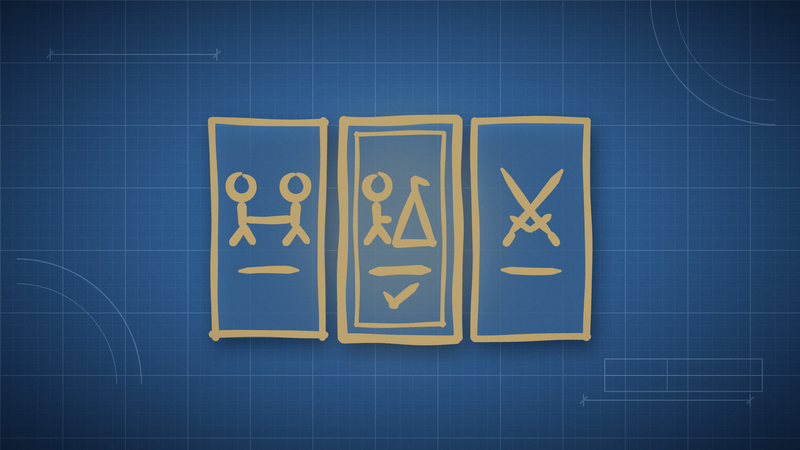
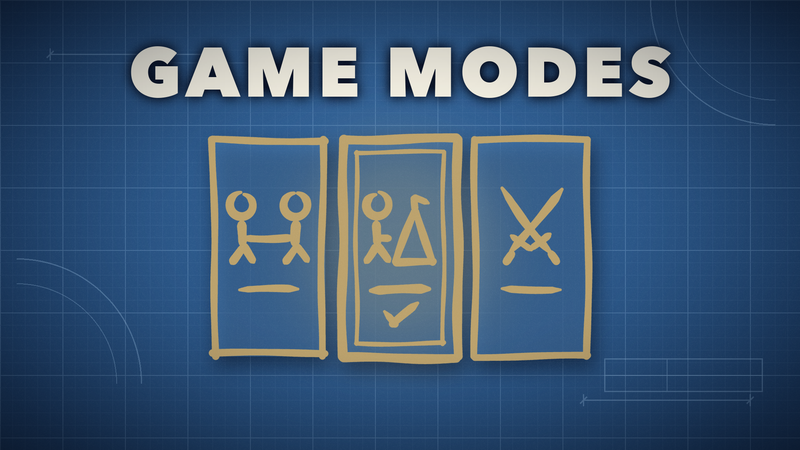
The cover has the mod's name across the top

Changed region(s): [[0.1562, 0.0933, 0.8438, 0.84]]

diff --git a/Tools/make_cover.py b/Tools/make_cover.py
@@ -6,7 +6,7 @@ background like the Mod Uploader's.
 
     python3 Tools/make_cover.py [Timber Empires checkout]
 
-Writes Media/cover.png (1920x1080, for the Workshop and mod.io pages) and
+Needs Pillow, and macOS for the Avenir Next font. Writes Media/cover.png (1920x1080, for the Workshop and mod.io pages) and
 GameModes/thumbnail.png (800x450, the one the game's mod list shows).
 """
 import math
@@ -14,7 +14,7 @@ import random
 import sys
 from pathlib import Path
 
-from PIL import Image, ImageChops, ImageDraw, ImageFilter
+from PIL import Image, ImageChops, ImageDraw, ImageFilter, ImageFont
 
 ROOT = Path(__file__).resolve().parents[1]
 TE = Path(sys.argv[1]) if len(sys.argv) > 1 else ROOT.parent / "TimberEmpires"
@@ -25,6 +25,10 @@ W, H = 1920, 1080
 ART = 1000                      # the drawing's square
 mi.SIZE = ART
 mi.SCALE = ART * mi.SS / 100
+
+FONT = ("/System/Library/Fonts/Avenir Next.ttc", 8)  # Avenir Next Heavy, as Timber Empires' logo
+TITLE = "GAME MODES"
+CHALK = (244, 240, 226)
 
 PAPER = (28, 62, 104)
 PAPER_LIGHT = (52, 102, 156)
@@ -150,7 +154,7 @@ def main():
         ImageDraw.Draw(paper).polygon([(x * mi.SCALE, y * mi.SCALE) for x, y in button], fill=255)
     paper = paper.resize((ART, ART), Image.LANCZOS)
 
-    ox, oy = (W - ART) // 2, (H - ART) // 2 + 10
+    ox, oy = (W - ART) // 2, (H - ART) // 2 + 55
     layer = Image.new("RGBA", (W, H), (0, 0, 0, 0))
 
     shadow = Image.new("L", (W, H), 0)
@@ -176,6 +180,26 @@ def main():
     gold.putalpha(strokes)
     layer.alpha_composite(gold, (ox, oy))
     img.alpha_composite(layer)
+
+    # The title across the top, in chalk, on a soft dark halo
+    cap = 118
+    font = ImageFont.truetype(FONT[0], int(cap * 1.4), index=FONT[1])
+    _, cap_top, _, _ = font.getbbox("H", anchor="ls")
+    font = ImageFont.truetype(FONT[0], int(cap * 1.4 * cap / -cap_top), index=FONT[1])
+    track = cap * 0.09
+    widths = [font.getlength(ch) for ch in TITLE]
+    x = (W - (sum(widths) + track * (len(TITLE) - 1))) / 2
+    mask = Image.new("L", (W, H), 0)
+    md = ImageDraw.Draw(mask)
+    for ch, w in zip(TITLE, widths):
+        md.text((x, 232), ch, font=font, fill=255, anchor="ls")
+        x += w + track
+    halo = Image.new("RGBA", (W, H), (8, 18, 38, 0))
+    halo.putalpha(mask.filter(ImageFilter.GaussianBlur(14)).point(lambda v: min(255, int(v * 1.6))))
+    img.alpha_composite(halo)
+    chalk = Image.new("RGBA", (W, H), CHALK + (0,))
+    chalk.putalpha(mask)
+    img.alpha_composite(chalk)
 
     # Grain, then the vignette
     rnd = random.Random(11)
